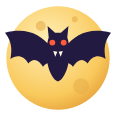
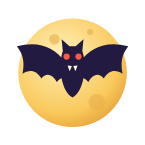
Fit the Spooky Merge art to its collision circles
Pieces looked apart while they touched, because the art filled only
81 to 95 percent of its circle. Center each image on the center of mass
of its art and scale it to fill the circle, letting thin tips reach past
it. The images are larger now, so the game starts a little later.

Changed region(s): [[0.0259, 0.0517, 0.9569, 0.9569], [0.4397, 0.4397, 0.5431, 0.4914]]

diff --git a/prg/spooky_merge_web/README.md b/prg/spooky_merge_web/README.md
@@ -69,7 +69,7 @@ Build the Seed7 program, then publish the contents of `prg/spooky_merge_web/`, i
 
 Each tier and the background has an SVG source and a rendered PNG in `art/`. After changing an SVG, run `node art/render.cjs` from this folder, with Playwright installed as described above.
 
-To use other artwork, replace a PNG and keep its file name. Tier images are square with a transparent background, and the game scales them to the size of the tier. For the sharpest result use the sizes in `render.cjs`. The top 110 CSS pixels of `background.png` (220 image pixels) must stay the flat color `#0b0820`, because the score text paints its own background. If a PNG cannot be loaded, the game draws a simple shape instead.
+To use other artwork, replace a PNG and keep its file name. Tier images are square with a transparent background, and the game scales them to the size of the tier. The physics treats every piece as a circle, which fills the inner 80% of the image width. So place the art on the center of the image, let it fill that inner circle, and keep only thin tips outside of it. `render.cjs` does this for the SVG art. For the sharpest result use the sizes that it prints. The top 110 CSS pixels of `background.png` (220 image pixels) must stay the flat color `#0b0820`, because the score text paints its own background. If a PNG cannot be loaded, the game draws a simple shape instead.
 
 ## Controls
 
